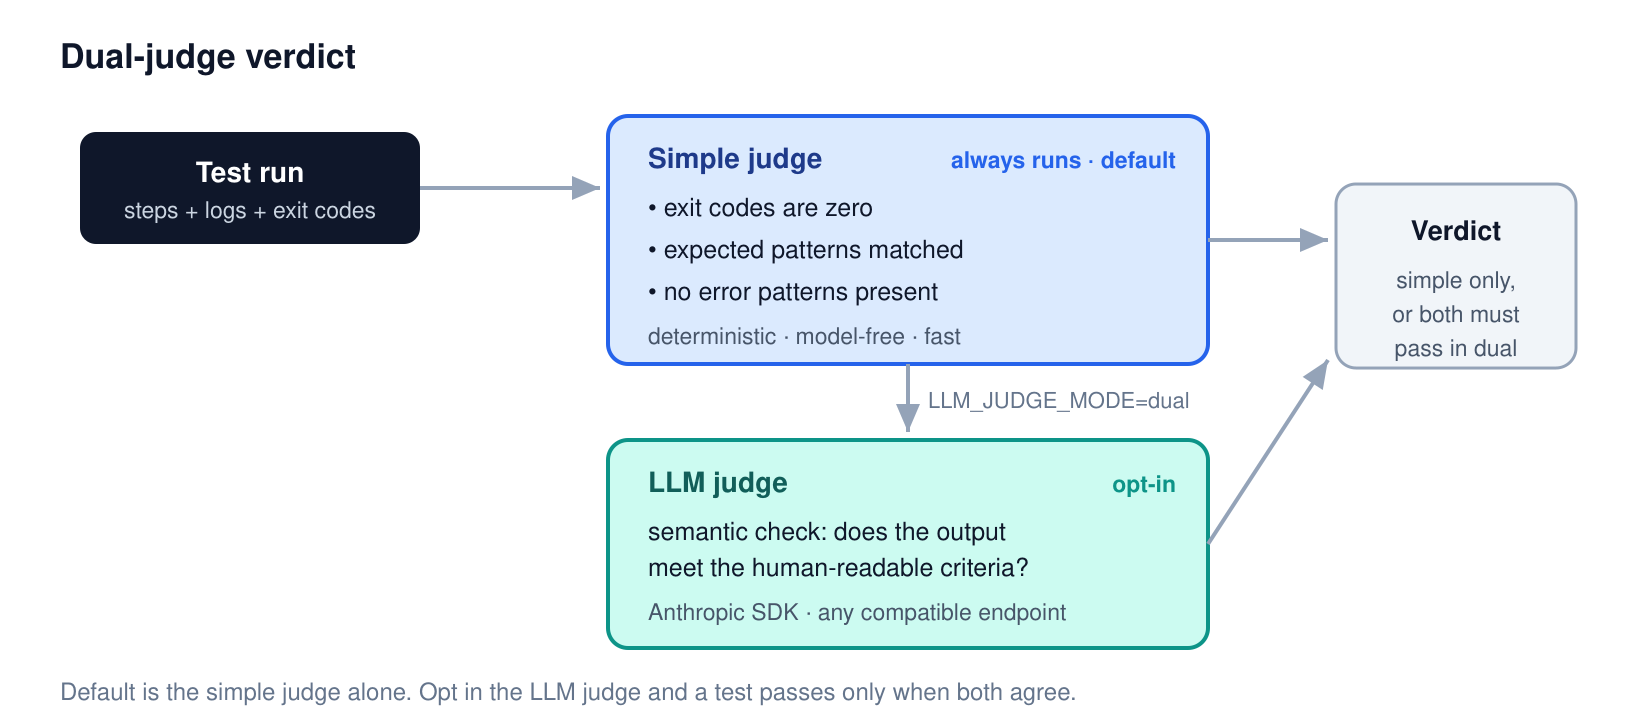
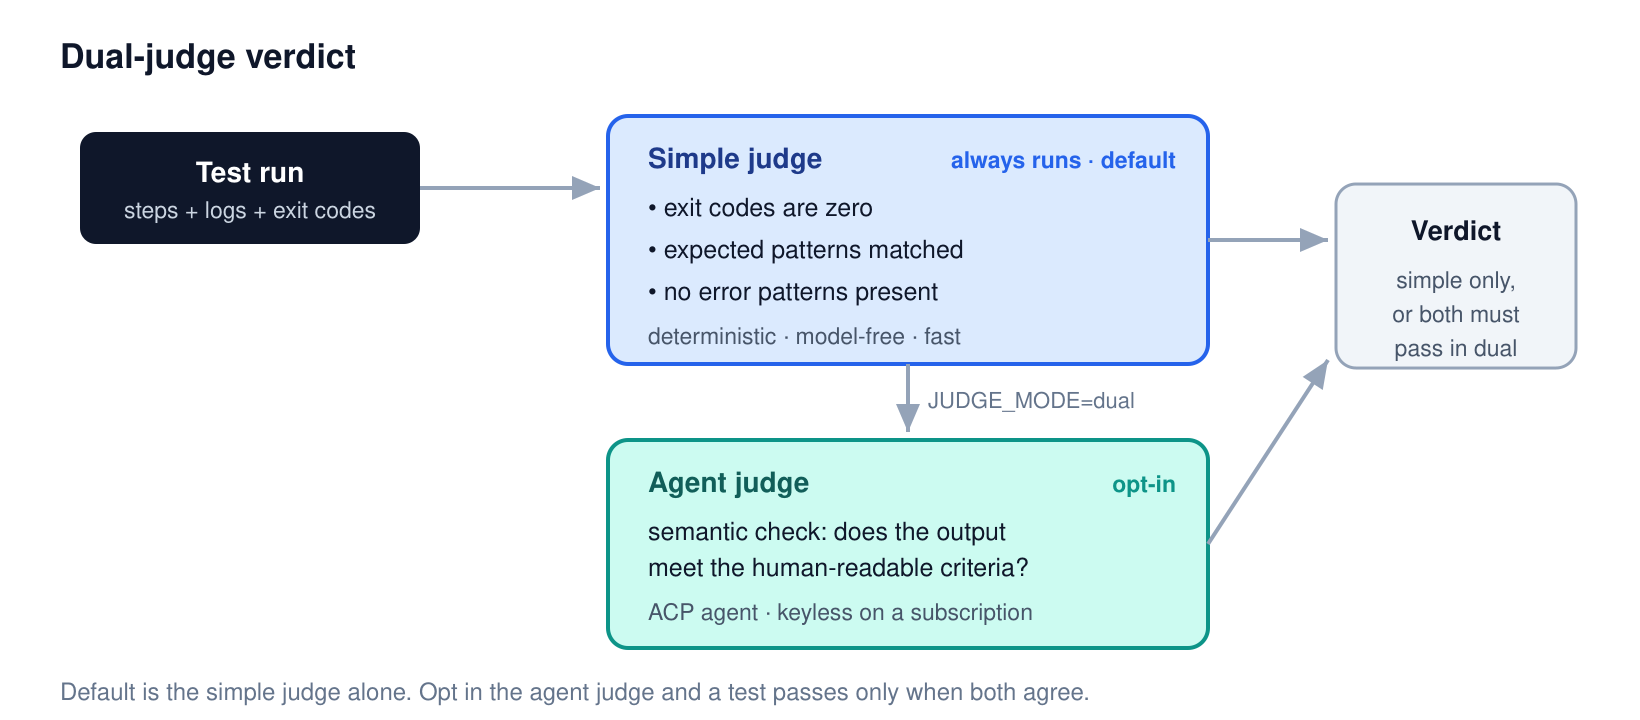
docs: rewrite judge docs to the agent-judge vocabulary (#40)
Replace the "LLM judge via the Anthropic SDK / any Anthropic-compatible endpoint"
narrative with the keyless agent judge throughout the human- and agent-read docs:

- README: intro, why-this-framework, dual-judge section, config block (judge: {})
  + env table (JUDGE_MODE/JUDGE_AGENT/CLAUDE_CODE_OAUTH_TOKEN), running-tests,
  feature-test note, directory tree (agent-judge.ts), family table
- .claude/rules/workflow-patterns.md + test-yaml-format.md
- .claude/skills/ci-run, ci-testcase, install (install now asks for JUDGE_AGENT,
  not a model/endpoint; points at agent-judge.ts)
- diagrams 01/02/03 SVG + re-rendered PNGs (LLM judge → Agent judge,
  LLM_JUDGE_MODE → JUDGE_MODE, "Anthropic SDK" → "ACP agent · keyless")
- documents the two CI auth paths (token secret on hosted, ~/.claude on self-hosted)

Records #37 + #39 merged on STORY-004. Historical story files left as-is (they
narrate the prior state by design).

Part of STORY-004 · plan #36

diff --git a/README.md b/README.md
@@ -2,7 +2,7 @@
 
 **The runner half of [`agent-workflows`](https://github.com/dogkeeper886/agent-workflows)** — a YAML-driven, dual-judge test framework: **a worked example you port into your own repo**, not a package you install unchanged.
 
-`agent-workflows` authors the commands and test docs; this repo runs the tests they describe. Fast and deterministic by default (the simple judge), with an opt-in LLM judge as a second opinion — reached through the Anthropic SDK, so any Anthropic-compatible endpoint (hosted or local) is just configuration.
+`agent-workflows` authors the commands and test docs; this repo runs the tests they describe. Fast and deterministic by default (the simple judge), with an opt-in agent judge as a second opinion — an Agent Client Protocol client that runs **keyless on a Claude Code subscription**, so no Console API key is needed and swapping the model or vendor is just configuration.
 
 ![The agent family: agent-workflows authors commands and test docs; this runner executes them; agent-studio wraps both into a product](docs/diagrams/png/01-agent-family.png)
 
@@ -25,23 +25,23 @@
 
 Testing on exit codes alone misses the failures that matter: a process exits `0` but produces the wrong output. This runner pairs a fast deterministic judge with an opt-in semantic one, so a test passes only when the result is *actually* right.
 
-Because the semantic judge reaches its model through the standard Anthropic SDK, the framework is more than a static-script checker for one product:
+Because the semantic judge drives its model through an Agent Client Protocol agent — keyless on a Claude Code subscription — the framework is more than a static-script checker for one product:
 
 | Use case | What it covers | Status |
 |----------|----------------|--------|
 | **Static / deterministic testing** | exit codes, expected patterns, error detection — the simple judge | **shipping** |
-| **AI-produced content testing & audit** | the LLM judge grades generated output against human-readable criteria, not just pass/fail commands | **shipping** |
+| **AI-produced content testing & audit** | the agent judge grades generated output against human-readable criteria, not just pass/fail commands | **shipping** |
 | **Agent-driven testing via MCP** | the judge attaches MCP tools so an agent pulls in external resources to gather what a test needs | **roadmap** — where this is heading, not yet built |
 
 > The MCP-agent direction is not implemented. Today, `mcp-client.ts` lets a test call *your* MCP server's tools (see [MCP testing](#mcp-testing)) — that is "test your MCP server," not "the judge uses MCP."
 
 ## How the dual judge works
 
-![Dual-judge verdict: the simple judge always runs; the LLM judge runs only in dual mode, and then both must pass](docs/diagrams/png/02-dual-judge.png)
+![Dual-judge verdict: the simple judge always runs; the agent judge runs only in dual mode, and then both must pass](docs/diagrams/png/02-dual-judge.png)
 
-The **simple judge** always runs — deterministic, model-free, milliseconds. The **LLM judge** runs only when you opt in with `LLM_JUDGE_MODE=dual`, and then **both must pass**. A configured-but-unreachable endpoint degrades cleanly, falling back to the simple judge with a notice.
+The **simple judge** always runs — deterministic, model-free, milliseconds. The **agent judge** runs only when you opt in with `JUDGE_MODE=dual`, and then **both must pass**. An unreachable or unauthenticated agent degrades cleanly, falling back to the simple judge with a notice.
 
-| Scenario | Exit code | Simple judge | LLM judge |
+| Scenario | Exit code | Simple judge | Agent judge |
 |----------|-----------|--------------|-----------|
 | Command fails | 1 | catches | catches |
 | "Error" in output | 0 | catches | catches |
@@ -86,12 +86,10 @@ export const SUITES: string[] = ['build', 'integration', 'e2e'];
 export const CONFIG = {
   projectName: 'your-project',
 
-  // LLM judge — opt-in second opinion (default verdict is the simple judge)
-  llm: {
-    mode: process.env.LLM_JUDGE_MODE || 'simple',     // 'simple' | 'dual'
-    baseUrl: process.env.LLM_JUDGE_URL || undefined,   // unset → hosted Anthropic API
-    apiKey: process.env.ANTHROPIC_API_KEY || 'local',
-    model: process.env.LLM_JUDGE_MODEL || 'claude-haiku-4-5-20251001',
+  // Agent judge — opt-in second opinion (default verdict is the simple judge)
+  judge: {
+    mode: process.env.JUDGE_MODE || 'simple',   // 'simple' | 'dual'
+    agent: process.env.JUDGE_AGENT || '',        // '' → bundled Claude ACP agent (keyless); set to another ACP agent's command to swap model/vendor
     timeout: 300000,
   },
 };
@@ -104,12 +102,11 @@ For CI, configure the judge through the environment instead of editing source:
 
 | Variable | Purpose | Default |
 |----------|---------|---------|
-| `LLM_JUDGE_MODE` | `simple` (deterministic only) or `dual` (opt in the LLM judge) | `simple` |
-| `LLM_JUDGE_MODEL` | model for judging | `claude-haiku-4-5-20251001` |
-| `LLM_JUDGE_URL` | base URL of an Anthropic-compatible endpoint (unset → hosted Anthropic API) | unset |
-| `ANTHROPIC_API_KEY` | API key for the hosted API (a placeholder works for a local endpoint that ignores auth) | `local` |
+| `JUDGE_MODE` | `simple` (deterministic only) or `dual` (opt in the agent judge) | `simple` |
+| `JUDGE_AGENT` | command that launches the ACP agent the judge drives; unset uses the bundled Claude ACP agent, keyless on a Claude Code subscription. Set it to another ACP agent to swap model/vendor — config, not code | unset |
+| `CLAUDE_CODE_OAUTH_TOKEN` | authenticates the bundled Claude agent on a GitHub-hosted CI runner; not needed on a self-hosted runner that's logged into Claude Code (`~/.claude`) | unset |
 
-> **Tip:** point `LLM_JUDGE_URL` at a local Anthropic-compatible server to judge offline. Keeping the judge on a separate endpoint from any model your project itself tests avoids resource contention.
+> **Keyless by design.** The agent judge authenticates through the agent, not a Console API key. Locally and on a self-hosted runner it uses your Claude Code login (`~/.claude`); on a GitHub-hosted runner, set the `CLAUDE_CODE_OAUTH_TOKEN` secret. To judge with a different model or vendor, point `JUDGE_AGENT` at that ACP agent — the model lives in the agent, not here.
 
 ## Running tests
 
@@ -123,16 +120,16 @@ npm test -- --tag auth      # tests tagged 'auth'
 npm test -- --dry-run       # preview what would run
 npm run list                # list available tests
 
-# opt in the LLM judge (env-configured, not a flag)
-LLM_JUDGE_MODE=dual npm test
-LLM_JUDGE_MODE=dual LLM_JUDGE_URL=http://host:11434 LLM_JUDGE_MODEL=gemma3:12b npm test
+# opt in the agent judge (env-configured, not a flag)
+JUDGE_MODE=dual npm test                              # keyless via your Claude Code login (~/.claude)
+JUDGE_AGENT="my-acp-agent" JUDGE_MODE=dual npm test   # drive a different ACP agent (model/vendor)
 ```
 
 ## Writing test cases
 
 A test case is YAML — configuration, not code. Drop files into `cicd/tests/testcases/<suite>/`.
 
-![Anatomy of a YAML test case: identity fields, ordered steps with expect/reject patterns, and human-readable criteria for the LLM judge](docs/diagrams/png/03-testcase-anatomy.png)
+![Anatomy of a YAML test case: identity fields, ordered steps with expect/reject patterns, and human-readable criteria for the agent judge](docs/diagrams/png/03-testcase-anatomy.png)
 
 ```yaml
 id: TC-BUILD-001
@@ -159,7 +156,7 @@ criteria: |
   Verify the project builds without errors.
 ```
 
-`expectPatterns` must appear in the step output; `rejectPatterns` must not; `criteria` is the human-readable pass condition the LLM judge evaluates the run against.
+`expectPatterns` must appear in the step output; `rejectPatterns` must not; `criteria` is the human-readable pass condition the agent judge evaluates the run against.
 
 ### Tags
 
@@ -230,7 +227,7 @@ jobs:
       judge_mode: ${{ inputs.judge_mode }}
 ```
 
-**To add a feature test:** tag your cases (`tags: [my-feature]`), copy `test-feature-example.yml` to `test-my-feature.yml`, change the `tag`, and add it as a job in `ci.yml`. Configure the judge with repository Variables/Secrets (`LLM_JUDGE_MODE`, `LLM_JUDGE_MODEL`, `LLM_JUDGE_URL`, and the `ANTHROPIC_API_KEY` secret).
+**To add a feature test:** tag your cases (`tags: [my-feature]`), copy `test-feature-example.yml` to `test-my-feature.yml`, change the `tag`, and add it as a job in `ci.yml`. Configure the judge through repository Variables (`JUDGE_MODE`, and `JUDGE_AGENT` to swap agents); on a GitHub-hosted runner, add the `CLAUDE_CODE_OAUTH_TOKEN` secret so the agent authenticates keyless — a self-hosted runner logged into Claude Code needs no secret.
 
 ## MCP testing
 
@@ -291,7 +288,7 @@ your-project/
 │   │   │   ├── cli.ts  loader.ts  executor.ts  types.ts
 │   │   │   ├── mcp-client.ts    # MCP tool client (optional)
 │   │   │   ├── log-collector.ts
-│   │   │   ├── judge/           # simple-judge.ts + llm-judge.ts
+│   │   │   ├── judge/           # simple-judge.ts + agent-judge.ts
 │   │   │   └── reporter/        # console + JSON
 │   │   ├── testcases/
 │   │   │   ├── build/           # ← your tests
@@ -312,7 +309,7 @@ This runner is one of three repos (see the diagram up top):
 | Repo | Role | Status |
 |------|------|--------|
 | [**agent-workflows**](https://github.com/dogkeeper886/agent-workflows) | dev-workflow + qa-workflow commands and the test docs they author | shipped |
-| **agent-workflows-runner** (this repo) | executes the test scripts the qa-workflow docs map to — a dual-judge framework (fast checks + opt-in LLM judge) | shipped |
+| **agent-workflows-runner** (this repo) | executes the test scripts the qa-workflow docs map to — a dual-judge framework (fast checks + opt-in agent judge) | shipped |
 | **agent-studio** | local-first web GUI over the workflows + runner; closes the Dev → QA → PM loop | working name (currently `ai-qa-studio`), planning |
 
 ## License

diff --git a/.claude/rules/workflow-patterns.md b/.claude/rules/workflow-patterns.md
@@ -42,22 +42,22 @@ Both patterns use `test-run.yml` as the single reusable job.
 
 **Dual triggers:** Each workflow supports both `workflow_dispatch` (manual, with dropdowns) and `workflow_call` (callable from pipeline). This lets you run features independently or as part of the full CI.
 
-**Judge mode dropdown:** Each workflow offers `simple` (default — fast, deterministic, no model) or `dual` (simple + the opt-in LLM judge). The workflow sets `LLM_JUDGE_MODE` from this input; the runner is simple-only unless it reads `dual`.
+**Judge mode dropdown:** Each workflow offers `simple` (default — fast, deterministic, no model) or `dual` (simple + the opt-in agent judge). The workflow sets `JUDGE_MODE` from this input; the runner is simple-only unless it reads `dual`.
 
 ## Environment Variables
 
-The LLM judge reaches its model through the Anthropic SDK, so any Anthropic-compatible
-endpoint (the hosted API or a local one) is a matter of configuration. Set these via
-GitHub repository variables/secrets (`Settings > Variables/Secrets > Actions`):
+The agent judge is an Agent Client Protocol client: it drives an ACP agent that
+authenticates itself, so the judge runs keyless — no Console API key. Swapping the
+model or vendor means pointing `JUDGE_AGENT` at a different ACP agent, not changing
+code. Set these via GitHub repository variables/secrets (`Settings > Variables/Secrets > Actions`):
 
 | Variable | Purpose | Example |
 |----------|---------|---------|
-| `LLM_JUDGE_MODE` | `simple` (default) or `dual` (opt in the LLM judge) | `dual` |
-| `LLM_JUDGE_MODEL` | Model for judging | `claude-haiku-4-5-20251001` |
-| `LLM_JUDGE_URL` | Base URL of an Anthropic-compatible endpoint (unset → hosted Anthropic API) | `http://localhost:11434` |
-| `ANTHROPIC_API_KEY` | API key for the hosted API (secret; a placeholder works for a local endpoint that ignores auth) | `sk-ant-...` |
+| `JUDGE_MODE` | `simple` (default) or `dual` (opt in the agent judge) | `dual` |
+| `JUDGE_AGENT` | Command for the ACP agent the judge drives; unset uses the bundled Claude ACP agent (keyless) | (unset) |
+| `CLAUDE_CODE_OAUTH_TOKEN` | Secret that authenticates the bundled Claude agent on a GitHub-hosted runner; unneeded on a self-hosted runner logged into Claude Code | `sk-ant-oat...` |
 
-**Local endpoint:** To judge against a local Anthropic-compatible model server, point `LLM_JUDGE_URL` at it. Keeping the judge on a separate endpoint from any model your project itself tests avoids resource contention.
+**Two auth paths for `dual`:** on a GitHub-hosted runner, add the `CLAUDE_CODE_OAUTH_TOKEN` secret. On a self-hosted runner already logged into Claude Code, the agent uses `~/.claude` and no secret is needed — point the workflow's `runs-on` at that runner. Either way, an unauthenticated agent degrades cleanly to the simple judge.
 
 ## Legacy Workflows
 

diff --git a/.claude/skills/ci-run/SKILL.md b/.claude/skills/ci-run/SKILL.md
@@ -1,13 +1,14 @@
 ---
 name: ci-run
-description: Execute test cases with the simple judge by default, or opt in the LLM judge
+description: Execute test cases with the simple judge by default, or opt in the agent judge
 user-invocable: true
 ---
 
 # Run Test Cases
 
 Execute test cases and evaluate results. The simple (deterministic) judge is the
-default verdict; the LLM judge is an opt-in second opinion (`LLM_JUDGE_MODE=dual`).
+default verdict; the agent judge is an opt-in second opinion (`JUDGE_MODE=dual`),
+keyless on a Claude Code subscription.
 
 ```
 $ARGUMENTS
@@ -91,14 +92,13 @@ npm test -- --suite integration # Specific suite
 npm test -- --id TC-INT-001     # Specific test
 npm test -- --tag auth          # Tests tagged 'auth'
 npm test -- --dry-run           # Preview only
-LLM_JUDGE_MODE=dual npm test    # Opt in the LLM judge (env, not a flag)
+JUDGE_MODE=dual npm test        # Opt in the agent judge (env, not a flag)
 ```
 
 **Environment variables for CI:**
-- `LLM_JUDGE_MODE` — `simple` (default) or `dual` (opt in the LLM judge)
-- `LLM_JUDGE_MODEL` — Model for judging (default: `claude-haiku-4-5-20251001`)
-- `LLM_JUDGE_URL` — Base URL of an Anthropic-compatible endpoint (unset → hosted Anthropic API)
-- `ANTHROPIC_API_KEY` — API key for the hosted API
+- `JUDGE_MODE` — `simple` (default) or `dual` (opt in the agent judge)
+- `JUDGE_AGENT` — Command for the ACP agent the judge drives; unset uses the bundled Claude ACP agent (keyless). Set it to swap model/vendor
+- `CLAUDE_CODE_OAUTH_TOKEN` — Authenticates the bundled Claude agent on a GitHub-hosted runner; unneeded on a self-hosted runner logged into Claude Code (`~/.claude`)
 
 ---
 

diff --git a/.claude/skills/install/SKILL.md b/.claude/skills/install/SKILL.md
@@ -42,9 +42,8 @@ Examine the current working directory:
 Prompt the user with detected defaults:
 
 - **Project name** — from package.json or ask
-- **Judge mode** — default: `simple` (deterministic, no model); `dual` opts in the LLM judge
-- **LLM judge model** — default: `claude-haiku-4-5-20251001` (used in dual mode)
-- **LLM judge endpoint** — optional Anthropic-compatible base URL (unset → hosted Anthropic API)
+- **Judge mode** — default: `simple` (deterministic, no model); `dual` opts in the agent judge
+- **Judge agent** — optional ACP agent command (`JUDGE_AGENT`); unset uses the bundled Claude ACP agent, keyless on a Claude Code subscription
 - **Include MCP client?** — auto-yes if MCP SDK detected
 - **Include Docker log collector?** — auto-yes if docker-compose found
 - **Install Claude skills?** — recommend yes
@@ -61,7 +60,7 @@ Prompt the user with detected defaults:
 
 2. **Copy files** from template source to current project:
    - Core: `cli.ts`, `config.ts`, `types.ts`, `loader.ts`, `executor.ts`
-   - Judges: `judge/simple-judge.ts`, `judge/llm-judge.ts`, `judge/index.ts`
+   - Judges: `judge/simple-judge.ts`, `judge/agent-judge.ts`, `judge/index.ts`
    - Reporters: `reporter/console.ts`, `reporter/json.ts`, `reporter/index.ts`
    - Supporting: `package.json`, `tsconfig.json`
    - Conditional: `log-collector.ts` (Docker), `mcp-client.ts` (MCP)

diff --git a/.claude/rules/test-yaml-format.md b/.claude/rules/test-yaml-format.md
@@ -13,7 +13,7 @@ paths:
 id: TC-[SUITE]-[NUMBER]
 name: Human-readable test name
 suite: build|integration|e2e      # Extensible — add custom suites in config.ts
-goal: One-line objective for LLM judge context
+goal: One-line objective for agent judge context
 priority: 1                        # Lower = runs first
 timeout: 30000                     # Milliseconds
 dependencies: [TC-SUITE-001]       # Tests that must pass first
@@ -31,7 +31,7 @@ steps:
       varName: "json.path"
 
 criteria: |
-  Human-readable criteria for LLM judge evaluation.
+  Human-readable criteria for agent judge evaluation.
 ```
 
 ## Tags

diff --git a/.claude/skills/ci-testcase/SKILL.md b/.claude/skills/ci-testcase/SKILL.md
@@ -47,7 +47,7 @@ Create test case file(s) in `cicd/tests/testcases/<suite>/` using this format:
 id: TC-[SUITE]-[NUMBER]
 name: Descriptive test name
 suite: build|integration|e2e
-goal: One-line test objective for LLM judge
+goal: One-line test objective for agent judge
 priority: 1-10 (lower = runs first)
 timeout: 30000
 dependencies: []
@@ -65,7 +65,7 @@ steps:
       varName: "json.path"
 
 criteria: |
-  Human-readable criteria for LLM judge evaluation.
+  Human-readable criteria for agent judge evaluation.
 ```
 
 **Suite guidelines:**

diff --git a/docs/stories/STORY-004.md b/docs/stories/STORY-004.md
@@ -71,6 +71,6 @@ endpoint. The gap is purely auth: there's no keyless option for the subscription
 - Created: 2026-06-13
 - Issues: #35
 - Plan: #36
-- Tasks: #37, #38, #39, #40
-- PRs: #41 (#37 — open)
+- Tasks: #37 ✓, #38, #39 ✓, #40
+- PRs: #41 (#37 + #39 — merged 2026-06-13)
 - Tests: none
